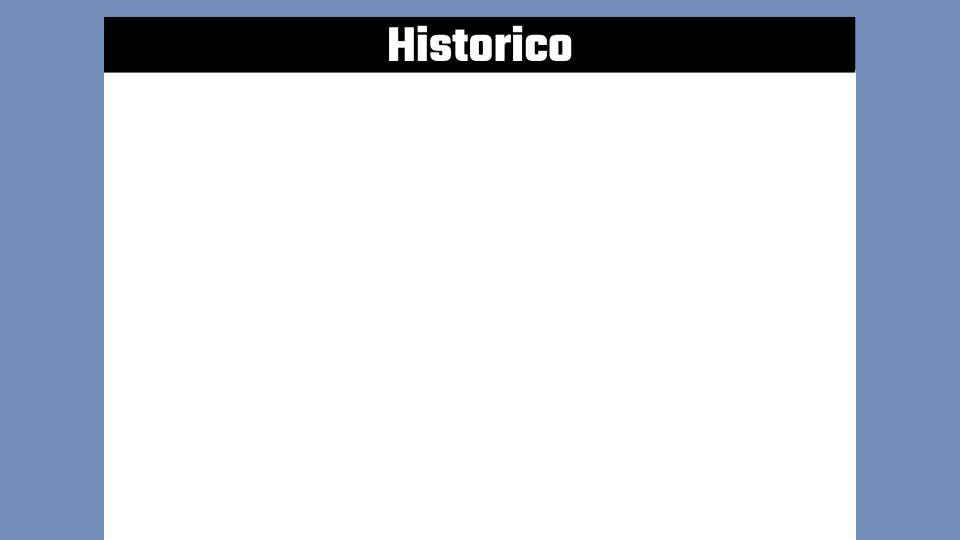
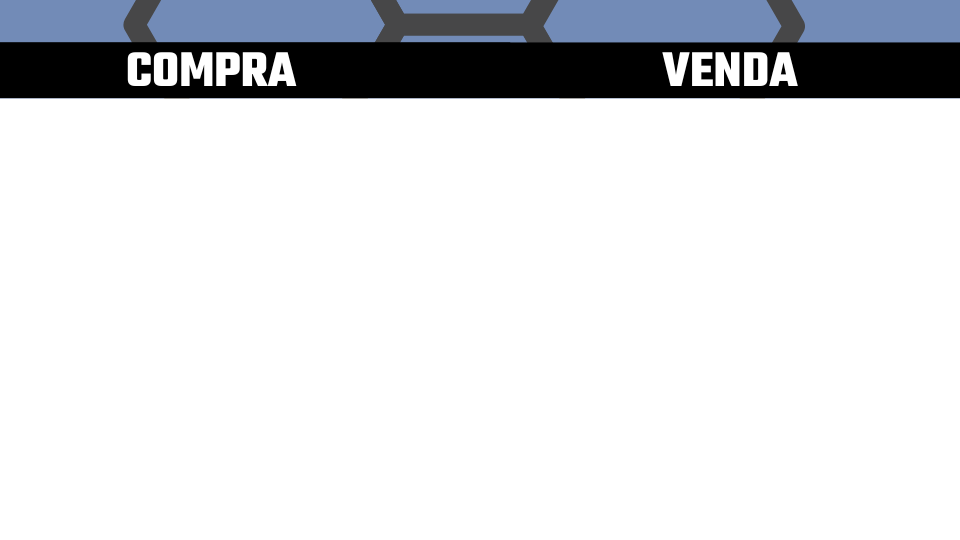
Atv's V1.16.13

Changed region(s): [[0.0, 0.0, 1.0, 1.0]]

diff --git a/UC-05 - Desenvolver aplicações desktop/Gerenciador de Estoque - Full/Menu_CL.py b/UC-05 - Desenvolver aplicações desktop/Gerenciador de Estoque - Full/Menu_CL.py
@@ -26,6 +26,14 @@ class Menu:  # classe que cria todo o front end
         self.branco = '#ffffff'
         self.preto = '#000000'
         self.cinza = '#d9d9d9'
+        '''barra = Menu(self.window)
+        menu_cadas = Menu(barra, tearoff=0)
+        menu_cadas.add_command(label='CADASTRO PRODUTOS')
+        menu_cadas.add_command(label='CADASTRO FABRICANTES')
+        menu_cadas.add_command(label='LISTAR PRODUTOS')
+        menu_cadas.add_command(label='LISTAR FABRICANTES')
+        barra.add_cascade(label='CADASTRO', menu=menu_cadas)
+        self.window.config(menu=barra)'''
         # ========================================================================================
         # frames
         self.frame_inicial = Frame(self.window)
@@ -171,7 +179,11 @@ class Menu:  # classe que cria todo o front end
                                                                    self.frame_menu_prod.forget()])
         botao_historico = Button(self.frame_menu_prod, image=img_historico, bd=0, activebackground=self.fundo,
                                  bg=self.fundo, command=lambda: [self.frame_menu_prod.forget(),
-                                                                 self.frame_hist.pack()])
+                                                                 self.frame_hist.pack(),
+                                                                 self.back.listar_hist(tabela=tabela_hist_compra, name=
+                                                                                       'compra'),
+                                                                 self.back.listar_hist(tabela=tabela_hist_venda, name=
+                                                                                       'saida')])
 
         botao_prod_listar = Button(self.frame_menu_prod, image=img_prod_listar, bd=0, activebackground=self.fundo,
                                    bg=self.fundo, command=lambda: [self.frame_menu_prod.forget(),
@@ -446,8 +458,8 @@ class Menu:  # classe que cria todo o front end
 
         botao_menu = Button(self.frame_venda, image=img_menu_botao, bd=0, activebackground=self.fundo, bg=self.fundo,
                             command=lambda: [self.frame_menu_ini.pack(), self.frame_venda.forget()])
-        botao_voltar = Button(self.frame_venda, image=img_voltar_botao, bd=0, activebackground=self.fundo,bg=self.fundo,
-                              command=lambda: [self.frame_venda.forget(), self.frame_menu_prod.pack()])
+        botao_voltar = Button(self.frame_venda, image=img_voltar_botao, bd=0, activebackground=self.fundo,
+                              bg=self.fundo, command=lambda: [self.frame_venda.forget(), self.frame_menu_prod.pack()])
         botao_retirar = Button(self.frame_venda, image=img_bt_retirar, bd=0, activebackground=self.fundo,
                                bg=self.fundo, command=lambda: self.back.compra_venda(cod=entry_id_venda, mudar='-',
                                                                                      quant=entry_quant_venda,
@@ -466,11 +478,35 @@ class Menu:  # classe que cria todo o front end
 
         botao_menu = Button(self.frame_hist, image=img_menu_botao, bd=0, activebackground=self.fundo, bg=self.fundo,
                             command=lambda: [self.frame_menu_ini.pack(), self.frame_hist.forget()])
-        botao_voltar = Button(self.frame_hist, image=img_voltar_botao, bd=0, activebackground=self.fundo,bg=self.fundo,
+        botao_voltar = Button(self.frame_hist, image=img_voltar_botao, bd=0, activebackground=self.fundo, bg=self.fundo,
                               command=lambda: [self.frame_hist.forget(), self.frame_menu_prod.pack()])
 
+        tabela_hist_compra = ttk.Treeview(self.frame_hist, columns=["codigo_prod", "id", "hora", "quant"],
+                                          selectmode='browse', show='headings')
+        tabela_hist_compra.column("codigo_prod", width=2)
+        tabela_hist_compra.column("id", width=70)
+        tabela_hist_compra.column("hora", width=30)
+        tabela_hist_compra.column("quant", width=30)
+        tabela_hist_compra.heading("codigo_prod", text='CODIGO PRODUTO')
+        tabela_hist_compra.heading("id", text='ID COMPRA')
+        tabela_hist_compra.heading("hora", text='DATA DA COMPRA')
+        tabela_hist_compra.heading("quant", text='QUANTIDADE')
+
+        tabela_hist_venda = ttk.Treeview(self.frame_hist, columns=["codigo_prod", "id", "hora", "quant"],
+                                         selectmode='browse', show='headings')
+        tabela_hist_venda.column("codigo_prod", width=2)
+        tabela_hist_venda.column("id", width=70)
+        tabela_hist_venda.column("hora", width=30)
+        tabela_hist_venda.column("quant", width=30)
+        tabela_hist_venda.heading("codigo_prod", text='CODIGO PRODUTO')
+        tabela_hist_venda.heading("id", text='ID COMPRA')
+        tabela_hist_venda.heading("hora", text='DATA DA COMPRA')
+        tabela_hist_venda.heading("quant", text='QUANTIDADE')
+
         botao_menu.place(width=32, height=31, x=9, y=11)
-        botao_voltar.place(width=32, height=31, x=40, y=12)
+        botao_voltar.place(width=32, height=31, x=40, y=11)
+        tabela_hist_compra.place(width=475, height=443, x=0, y=97)
+        tabela_hist_venda.place(width=500, height=443, x=475, y=97)
         # ==========================================================================================
         self.window.after(2000, self.frame_inicial.forget)
         self.window.mainloop()

diff --git a/UC-05 - Desenvolver aplicações desktop/Gerenciador de Estoque - Full/Data_CL.py b/UC-05 - Desenvolver aplicações desktop/Gerenciador de Estoque - Full/Data_CL.py
@@ -54,8 +54,13 @@ class Data:  # faz a conexão com o banco de dados e usa seus dados
             valores = [fabri[0], fabri[1], fabri[2]]
             tabela.insert('', 'end', values=valores, tags='1')
 
-    def listar_hist(self, tabela):
-        self.cursor.execute(f'')
+    def listar_hist(self, tabela, name):
+        self.cursor.execute(f'select * from {name}_produtos')
+        hist = self.cursor.fetchall()
+        tabela.delete(*tabela.get_children())
+        for cv in hist:
+            valores = [cv[0], cv[1], cv[2], cv[3]]
+            tabela.insert('', 'end', values=valores, tags='1')
 
     def altera_produtos(self, cod, desc, valor):  # altera o dado de descrição de um produto
         self.cursor.execute(f'update Produtos set descricao = "{desc}", valor = {valor} where id = {cod}')

diff --git a/UC-05 - Desenvolver aplicações desktop/Gerenciador de Estoque - Full/Back_CL.py b/UC-05 - Desenvolver aplicações desktop/Gerenciador de Estoque - Full/Back_CL.py
@@ -60,3 +60,6 @@ class BackEnd:  # classe para realizar o back end
 
     def listar_fabri(self, tabela):
         self.data.listar_fabri(tabela=tabela)
+
+    def listar_hist(self, tabela, name):
+        self.data.listar_hist(tabela=tabela, name=name)
